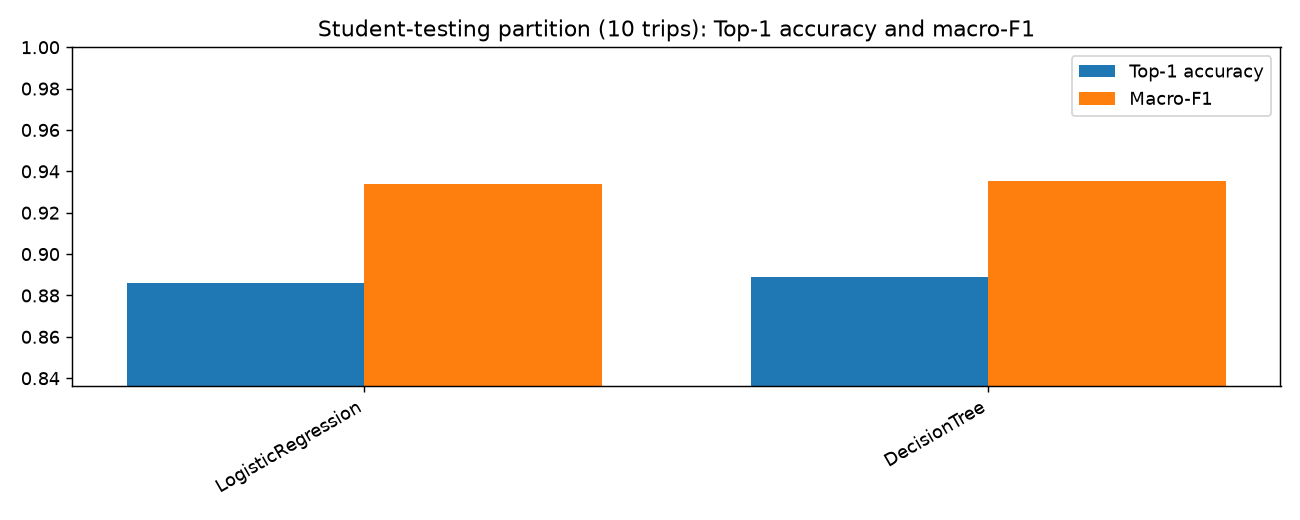
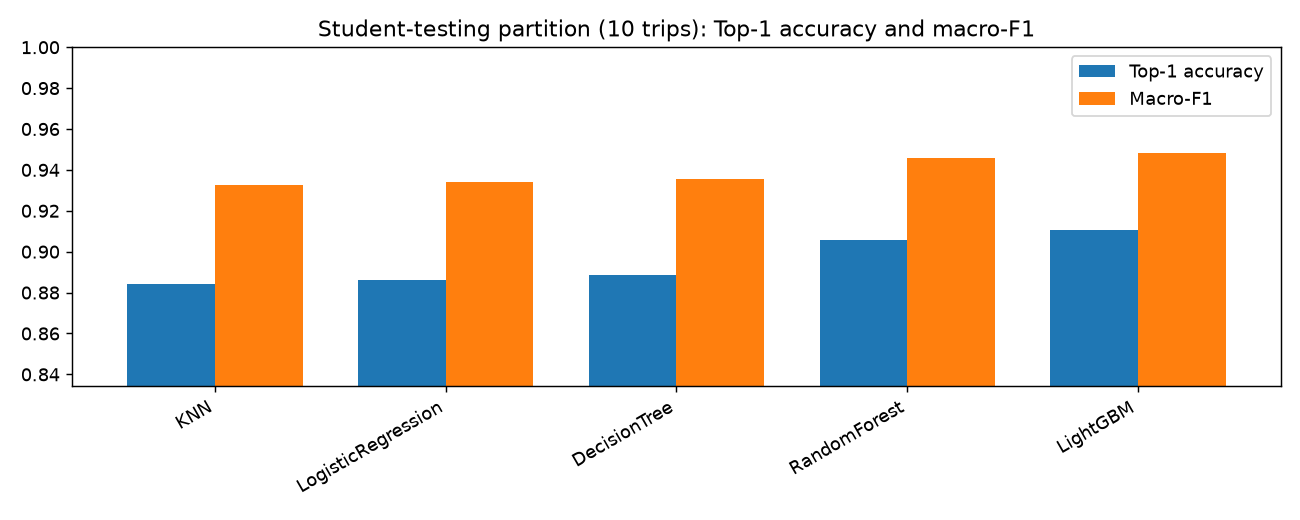
Phase 1: feature selection and five-model comparison
- Feature analysis: Spearman correlation, mutual information, permutation
  importance and top-k ablation (all 22 features kept)
- Five classifiers from five families: Logistic Regression, KNN,
  Decision Tree, Random Forest, LightGBM
- 5-fold GroupKFold CV and student-test results, comparison plots,
  confusion matrices and LightGBM training curve

diff --git a/scripts/03_feature_selection.py b/scripts/03_feature_selection.py
@@ -1,0 +1,107 @@
+"""Feature analysis and selection for the candidate classifier.
+
+1. Spearman correlation between the 22 engineered features (redundancy check).
+2. Mutual information of each feature with the label (model-free relevance).
+3. Permutation importance (drop in log loss) of a LightGBM model trained on
+   GroupKFold fold-0 training trips and measured on fold-0 validation trips.
+4. Ablation: CV top-1 / macro-F1 using the top-k features of that ranking,
+   evaluated on folds 1-4 only (fold 0 was used to build the ranking).
+Outputs: results/feature_selection/*.csv, results/figures/fs_*.png
+"""
+import sys
+import time
+from pathlib import Path
+
+import matplotlib
+import matplotlib.pyplot as plt
+import numpy as np
+import pandas as pd
+from lightgbm import LGBMClassifier
+from sklearn.feature_selection import mutual_info_classif
+from sklearn.inspection import permutation_importance
+from sklearn.model_selection import GroupKFold
+
+matplotlib.use("Agg")
+sys.path.insert(0, str(Path(__file__).resolve().parents[1]))
+from pathsnap.config import FIG_DIR, RESULTS_DIR, SEED  # noqa: E402
+from pathsnap.dataset import FEATURES, load_train  # noqa: E402
+from pathsnap.metrics import candidate_metrics  # noqa: E402
+
+OUT = RESULTS_DIR / "feature_selection"
+OUT.mkdir(exist_ok=True)
+
+
+def lgbm():
+    return LGBMClassifier(n_estimators=300, num_leaves=63, learning_rate=0.05, subsample=0.8, subsample_freq=1,
+                          colsample_bytree=0.8, random_state=SEED, verbose=-1, n_jobs=-1)
+
+
+def main():
+    tr = load_train()
+    X, y, g = tr[FEATURES], tr["y"].values, tr["trip_id"].values
+    rng = np.random.default_rng(SEED)
+    samp = rng.choice(len(tr), 150_000, replace=False)
+
+    # 1. correlation
+    corr = X.iloc[samp].corr(method="spearman")
+    corr.to_csv(OUT / "spearman_correlation.csv")
+    fig, ax = plt.subplots(figsize=(10, 8.5))
+    im = ax.imshow(corr.values, cmap="coolwarm", vmin=-1, vmax=1)
+    ax.set_xticks(range(len(FEATURES)), FEATURES, rotation=90, fontsize=7)
+    ax.set_yticks(range(len(FEATURES)), FEATURES, fontsize=7)
+    fig.colorbar(im, shrink=0.8); ax.set_title("Spearman correlation of features (train, 150k candidate rows)")
+    fig.tight_layout(); fig.savefig(FIG_DIR / "fs_correlation.png", dpi=130); plt.close(fig)
+    pairs = [(a, b, corr.loc[a, b]) for i, a in enumerate(FEATURES) for b in FEATURES[i + 1:] if abs(corr.loc[a, b]) >= 0.9]
+    print("highly correlated pairs (|rho|>=0.9):", [(a, b, round(r, 3)) for a, b, r in pairs])
+
+    # 2. mutual information
+    mi = mutual_info_classif(X.iloc[samp].values, y[samp], random_state=SEED)
+    mi = pd.Series(mi, index=FEATURES).sort_values(ascending=False)
+
+    # 3. permutation importance on fold-0 validation trips
+    folds = list(GroupKFold(n_splits=5).split(X, y, g))
+    a, b = folds[0]
+    m = lgbm().fit(X.values[a], y[a])
+    vb = rng.choice(b, min(80_000, len(b)), replace=False)
+    t0 = time.time()
+    pi = permutation_importance(m, X.values[vb], y[vb], scoring="neg_log_loss", n_repeats=3, random_state=SEED, n_jobs=1)
+    print(f"permutation importance {time.time() - t0:.0f}s")
+    perm = pd.Series(pi.importances_mean, index=FEATURES)
+    gain = pd.Series(m.booster_.feature_importance("gain"), index=FEATURES)
+    imp = pd.DataFrame({"mutual_info": mi, "perm_importance_logloss": perm, "perm_std": pi.importances_std,
+                        "lgbm_gain_share": gain / gain.sum()}).sort_values("perm_importance_logloss", ascending=False)
+    imp.to_csv(OUT / "feature_importance.csv")
+    print(imp.round(4).to_string())
+
+    fig, ax = plt.subplots(1, 2, figsize=(13, 6))
+    ax[0].barh(imp.index[::-1], imp.perm_importance_logloss[::-1], xerr=imp.perm_std[::-1], color="tab:blue")
+    ax[0].set_title("Permutation importance (log-loss increase, fold-0 validation trips)")
+    mi_s = mi.sort_values()
+    ax[1].barh(mi_s.index, mi_s.values, color="tab:green"); ax[1].set_title("Mutual information with label")
+    fig.tight_layout(); fig.savefig(FIG_DIR / "fs_importance.png", dpi=130); plt.close(fig)
+
+    # 4. ablation on folds 1-4
+    ranking = list(imp.index)
+    rows = []
+    for k in [3, 5, 8, 12, 16, len(FEATURES)]:
+        feats = ranking[:k]
+        mets = []
+        for a, b in folds[1:]:
+            mm = lgbm().fit(tr[feats].values[a], y[a])
+            mets.append(candidate_metrics(tr.iloc[b], mm.predict_proba(tr[feats].values[b])[:, 1]))
+        d = pd.DataFrame(mets)
+        rows.append({"k": k, "features": ",".join(feats), "cv_top1": d.top1_acc.mean(), "cv_macro_f1": d.macro_f1.mean(),
+                     "cv_macro_f1_std": d.macro_f1.std(), "cv_log_loss": d.log_loss.mean()})
+        print(rows[-1]["k"], round(rows[-1]["cv_top1"], 4), round(rows[-1]["cv_macro_f1"], 4), round(rows[-1]["cv_log_loss"], 4))
+    ab = pd.DataFrame(rows)
+    ab.to_csv(OUT / "ablation_topk.csv", index=False)
+    fig, ax = plt.subplots(figsize=(7, 4))
+    ax.errorbar(ab.k, ab.cv_macro_f1, yerr=ab.cv_macro_f1_std, marker="o", capsize=3, label="CV macro-F1")
+    ax.plot(ab.k, ab.cv_top1, "s--", label="CV top-1")
+    ax.set_xlabel("number of features (top-k by permutation importance)"); ax.legend()
+    ax.set_title("Feature-count ablation (LightGBM, GroupKFold folds 1-4)")
+    fig.tight_layout(); fig.savefig(FIG_DIR / "fs_ablation.png", dpi=130); plt.close(fig)
+
+
+if __name__ == "__main__":
+    main()

diff --git a/pathsnap/models.py b/pathsnap/models.py
@@ -1,10 +1,10 @@
-"""Candidate classifiers compared in the experiments.
-
-Phase 1: two baseline models from different families (linear vs tree-based).
-"""
+"""Candidate classifiers compared in the experiments (one per algorithm family)."""
 from __future__ import annotations
 
+from lightgbm import LGBMClassifier
+from sklearn.ensemble import RandomForestClassifier
 from sklearn.linear_model import LogisticRegression
+from sklearn.neighbors import KNeighborsClassifier
 from sklearn.pipeline import make_pipeline
 from sklearn.preprocessing import StandardScaler
 from sklearn.tree import DecisionTreeClassifier
@@ -15,6 +15,13 @@ from .config import SEED
 MODEL_ZOO = {
     "LogisticRegression": ("Linear / probabilistic", "C=1.0, L2, standardised",
                            lambda: make_pipeline(StandardScaler(), LogisticRegression(C=1.0, max_iter=2000)), None),
+    "KNN": ("Instance-based", "k=25, distance-weighted, standardised, 60k-row reference set",
+            lambda: make_pipeline(StandardScaler(), KNeighborsClassifier(n_neighbors=25, weights="distance", n_jobs=-1)), 60_000),
     "DecisionTree": ("Tree-based", "max_depth=12, min_samples_leaf=20",
                      lambda: DecisionTreeClassifier(max_depth=12, min_samples_leaf=20, random_state=SEED), None),
+    "RandomForest": ("Ensemble (bagging)", "150 trees, max_depth=18, min_samples_leaf=5",
+                     lambda: RandomForestClassifier(n_estimators=150, max_depth=18, min_samples_leaf=5, n_jobs=-1, random_state=SEED), None),
+    "LightGBM": ("Boosting", "400 trees, num_leaves=63, lr=0.05",
+                 lambda: LGBMClassifier(n_estimators=400, num_leaves=63, learning_rate=0.05, subsample=0.8, subsample_freq=1,
+                                        colsample_bytree=0.8, random_state=SEED, verbose=-1, n_jobs=-1), None),
 }

diff --git a/scripts/03_train_models.py b/scripts/03_train_models.py
@@ -1,4 +1,4 @@
-"""Train and compare candidate classifiers (Phase 1: two baselines).
+"""Train and compare candidate classifiers.
 
 Protocol
   * training data   : 80 training trips, fixes with reliable labels, every 2nd fix
@@ -38,13 +38,19 @@ def fit_model(name, X, y, X_val=None, y_val=None):
         idx = np.random.default_rng(SEED).choice(len(X), max_rows, replace=False)
         X, y = X[idx], y[idx]
     t0 = time.time()
-    m.fit(X, y)
+    if name == "LightGBM" and X_val is not None:
+        m.fit(X, y, eval_set=[(X, y), (X_val, y_val)], eval_names=["train", "val"])
+    else:
+        m.fit(X, y)
     return m, time.time() - t0
 
 
 def history_of(name, m):
-    """Epoch/round-wise loss history (none of the Phase-1 baselines produce one)."""
-    return getattr(m, "history", None)
+    """Round-wise train/validation loss (only boosting produces a training history)."""
+    if name == "LightGBM" and getattr(m, "evals_result_", None):
+        r = m.evals_result_
+        return {"train_loss": r["train"]["binary_logloss"], "val_loss": r["val"]["binary_logloss"]}
+    return None
 
 
 def main(only=None):

diff --git a/README.md b/README.md
@@ -2,10 +2,11 @@
 
 Noisy GPS tracks are matched to a road network. **Phase 1 (this commit)** covers data understanding and the
 machine-learning pipeline: raw-data processing, exploratory analysis, label construction, candidate generation,
-feature engineering, and a first baseline comparison of two classifiers (Logistic Regression, Decision Tree).
+feature engineering, feature selection, and the training / comparison of five classifiers from five algorithm
+families (Logistic Regression, KNN, Decision Tree, Random Forest, LightGBM).
 
-*Phase 2 will add: more model families and the full comparison, Bayesian hyperparameter optimisation,
-route reconstruction with HMM/Viterbi, the FastAPI backend and the evaluator UI.*
+*Phase 2 will add: further models, Bayesian hyperparameter optimisation, route reconstruction with HMM/Viterbi,
+the FastAPI backend and the evaluator UI.*
 
 ## ML flow
 
@@ -23,7 +24,9 @@ candidate segments          pathsnap/candidates.py (KD-tree on 10 m arc samples,
    ▼
 22 features / candidate     pathsnap/features.py (distance, heading, context, topology, gaps)
    ▼
-binary classifier           pathsnap/models.py   P(candidate = true road segment)  [Phase 1: 2 baselines]
+feature selection           scripts/03_feature_selection.py (correlation, mutual info, permutation importance, ablation)
+   ▼
+binary classifier           pathsnap/models.py   P(candidate = true road segment)  [5 models]
    ▼
 top-1 candidate per fix  →  metrics (pathsnap/metrics.py): top-1, macro-F1, log loss, continuity
 ```
@@ -35,11 +38,13 @@ top-1 candidate per fix  →  metrics (pathsnap/metrics.py): top-1, macro-F1, lo
 | `pathsnap/` | Library modules listed above, plus `dataset.py` (loading cached tables) and `evaluation.py` (trip-level scoring) |
 | `scripts/01_eda.py` | Dataset inventory, missing-value checks, time gaps, network connectivity, plots, Folium EDA maps |
 | `scripts/02_build_dataset.py` | Candidate generation, feature engineering, label alignment → `data_cache/` |
-| `scripts/03_train_models.py` | Baseline models, 5-fold GroupKFold CV, student-test evaluation, comparison plots |
+| `scripts/03_feature_selection.py` | Feature correlation, mutual information, permutation importance, top-k ablation |
+| `scripts/03_train_models.py` | 5 models, 5-fold GroupKFold CV, student-test evaluation, comparison plots |
 | `results/eda/` | `inventory.csv`, `data_quality.csv`, `partition_summary.csv` |
 | `results/candidate_summary.csv` | Per-trip candidate miss rate and label-alignment quality |
-| `results/model_comparison.csv`, `model_cv_folds.csv` | Model comparison and per-fold CV results |
-| `results/figures/` | EDA plots, CV macro-F1, student-test comparison, log loss, confusion matrices |
+| `results/feature_selection/` | `feature_importance.csv`, `spearman_correlation.csv`, `ablation_topk.csv` |
+| `results/model_comparison.csv`, `model_cv_folds.csv` | Model comparison (incl. hyperparameters) and per-fold CV results |
+| `results/figures/` | EDA plots, feature-selection plots (`fs_*`), CV macro-F1, student-test comparison, log loss, confusion matrices, LightGBM training curve |
 | `results/maps/` | Interactive Folium EDA maps (GPS, road network, reference route) |
 
 ## Installation
@@ -58,26 +63,37 @@ override with the `PATHSNAP_DATA` environment variable.
 ```bash
 python scripts/02_build_dataset.py     # candidates + features + labels (~1 min, parallel)
 python scripts/01_eda.py               # EDA tables, figures, Folium maps
-python scripts/03_train_models.py      # baseline models (~5 min)
+python scripts/03_feature_selection.py # feature analysis + ablation (~5 min)
+python scripts/03_train_models.py      # 5 models (~12 min)
 ```
 
 Random seed: 42 everywhere (`pathsnap/config.py`).
 
-## Phase 1 results (baselines)
+## Feature selection (training trips only)
+
+* Spearman |ρ| ≥ 0.9 pairs: dist / dist_minus_min / dist_ratio, dist_minus_min / ctx_minus_min, ctx_mean / ctx_max / ctx_wide_mean.
+* Permutation importance (log-loss increase, fold-0 validation trips): head_cos_wide 0.195, ctx_minus_min 0.101,
+  dist 0.049, head_cos 0.021, t_along 0.015 … dist_rank, ctx_mean, arc_len ≈ 0.
+* Top-k ablation (LightGBM, CV folds 1-4, macro-F1): 3 → 0.922, 5 → 0.949, 8 → 0.950, 12 → 0.952, 16 → 0.953, 22 → 0.953.
+* Decision: keep all 22 features (best score; the weak ones are cheap and redundant rather than harmful).
+
+## Phase 1 results
 
 Protocol: 5-fold `GroupKFold` grouped by trip on the 80 training trips; evaluation on all 19,160 fixes of the
 10 student-testing trips. Top-1 = share of GPS fixes whose highest-scoring candidate is the reference segment.
 
-| Model | Family | CV macro-F1 | Student-test top-1 | Student-test macro-F1 | Student-test log loss | Route continuity |
-|---|---|---|---|---|---|---|
-| Logistic Regression | Linear | 0.9440 ± 0.0120 | 0.8862 | 0.9340 | 0.1029 | 0.9726 |
-| Decision Tree | Tree | 0.9460 ± 0.0126 | 0.8888 | 0.9355 | 0.1032 | 0.9724 |
+| Model | Family | Hyperparameters | CV macro-F1 | Test top-1 | Test macro-F1 | Test log loss | Route continuity |
+|---|---|---|---|---|---|---|---|
+| Logistic Regression | Linear | C=1, L2, standardised | 0.9440 ± 0.0120 | 0.8862 | 0.9340 | 0.1029 | 0.9726 |
+| KNN | Instance-based | k=25, distance-weighted | 0.9424 ± 0.0130 | 0.8843 | 0.9328 | 0.1407 | 0.9670 |
+| Decision Tree | Tree | depth 12, min leaf 20 | 0.9460 ± 0.0126 | 0.8888 | 0.9355 | 0.1032 | 0.9724 |
+| Random Forest | Bagging | 150 trees, depth 18 | 0.9508 ± 0.0118 | 0.9059 | 0.9456 | 0.0742 | 0.9794 |
+| **LightGBM** | Boosting | 400 trees, 63 leaves, lr 0.05 | **0.9509 ± 0.0128** | **0.9106** | **0.9483** | 0.0746 | **0.9810** |
 
-Candidate generation misses the true segment for only 0.36 % of student-test fixes, so the ceiling is ~99.6 %.
-The ~11 % gap between the baselines and that ceiling is expected to come from junctions and two-way roads; Phase 2
-targets it with stronger nonlinear models and with HMM decoding that enforces road connectivity.
-The Decision Tree's training top-1 (0.931) exceeds its CV top-1 (0.907), showing mild overfitting; Logistic
-Regression has no such gap (0.904 vs 0.903), which suggests it underfits.
+LightGBM is selected (highest CV macro-F1, best student-test top-1 / macro-F1, fast to train) and will be tuned in Phase 2.
+Fit check: Logistic Regression underfits (train 0.904 ≈ CV 0.903); Decision Tree and Random Forest overfit
+somewhat (train 0.931 / 0.955 vs CV 0.907 / 0.915); LightGBM's validation loss levels off after ~150 rounds.
+Candidates miss the true segment for only 0.36 % of student-test fixes, so the ceiling is ~99.6 %.
 
 ## Data-leakage safeguards
 
